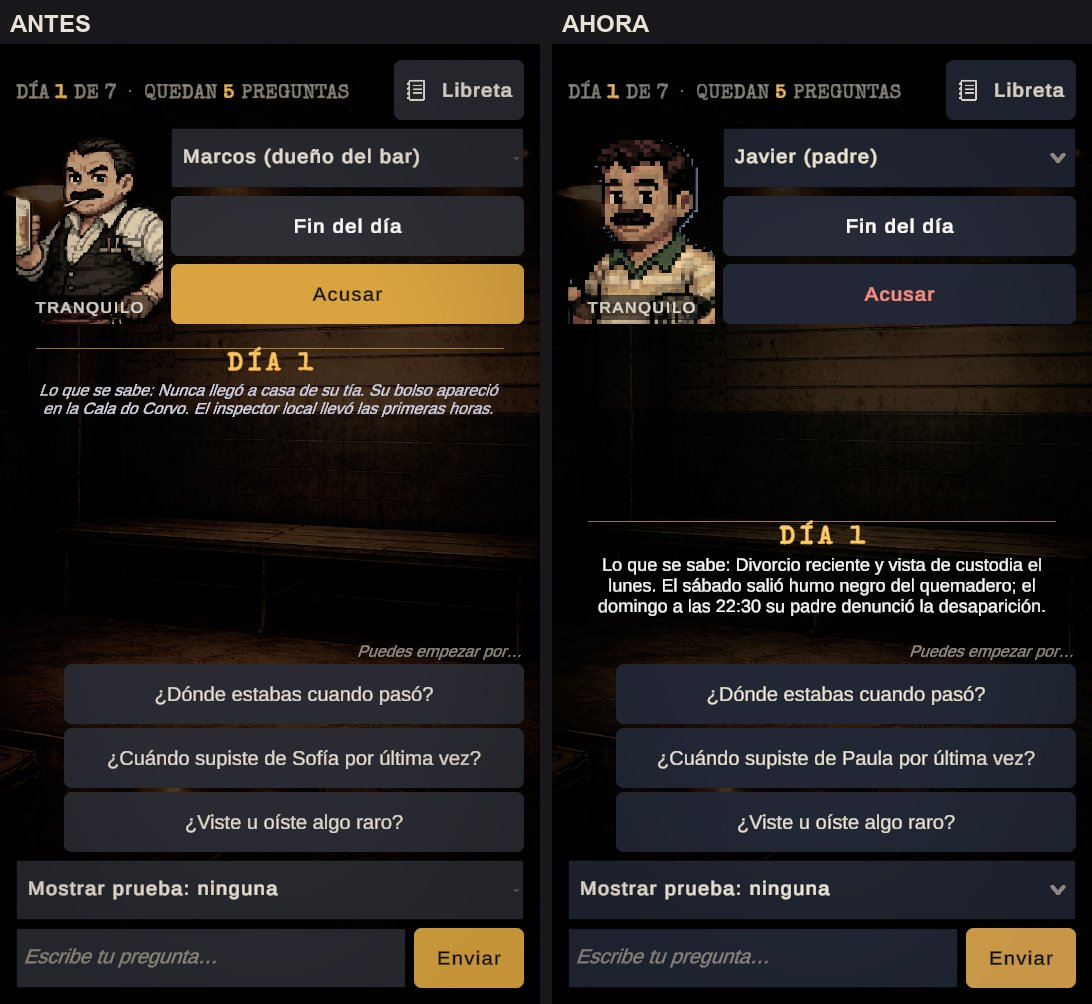
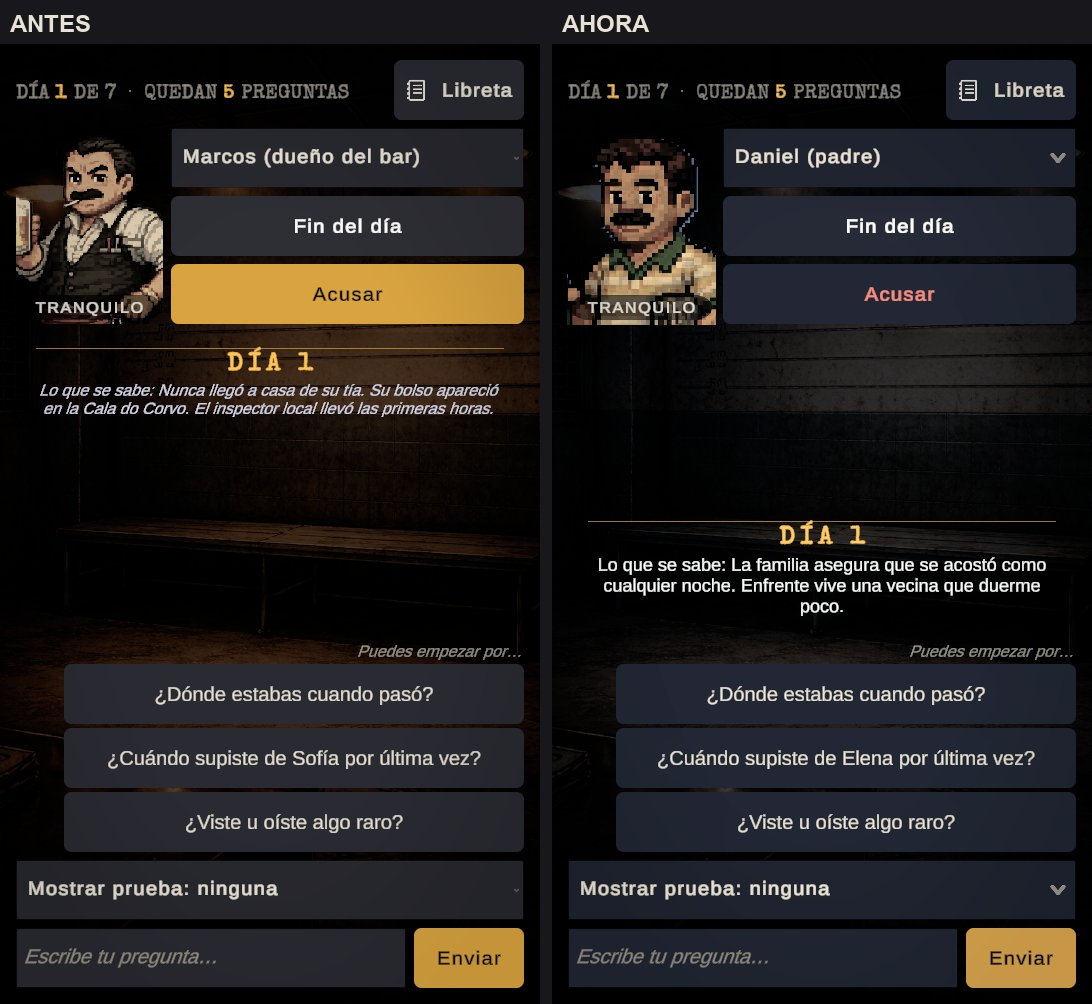
Gallery: notebook with suspects' versions; refreshed sheets
Claude-Session: https://claude.ai/code/session_01KEoVtmbGPQRPnhweMQeCc5

diff --git a/Tools/make_gallery_dia3.py b/Tools/make_gallery_dia3.py
@@ -65,6 +65,14 @@ intros = [Image.open(os.path.join(BASE, 'anim', f'intro_historia{i}.png')).conve
 labelled([Image.open(os.path.join(BASE, 'dia3-antes-C', 'panel_intro.png')).convert('RGB')] + intros,
          ['ANTES (todas)', 'AHORA: historia 1', 'historia 2', 'historia 3']).save(os.path.join(OUT, '19_intros_por_historia.jpg'), quality=85)
 
+# Libreta con las versiones de cada sospechoso (render del editor: peor caso, todos interrogados)
+import glob
+renders = sorted(glob.glob(os.path.join(BASE, '[0-9][0-9][0-9][0-9]', '1080x1920_CluesPanel.png')))
+if renders:
+    labelled([Image.open(os.path.join(BASE, 'dia3-antes-C', 'panel_libreta.png')).convert('RGB'),
+              Image.open(renders[-1]).convert('RGB').resize((540, 960))],
+             ['ANTES (vacía)', 'AHORA: con lo que dice cada uno']).save(os.path.join(OUT, '22_libreta_versiones.jpg'), quality=85)
+
 # Personajes: los 7 retratos, plano (antes) y relieve (ahora)
 proto = os.path.join(BASE, 'c3-prototipo')
 chars = ['padre', 'madre', 'hermano', 'vecina', 'cartero', 'duenio_bar', 'detective']
